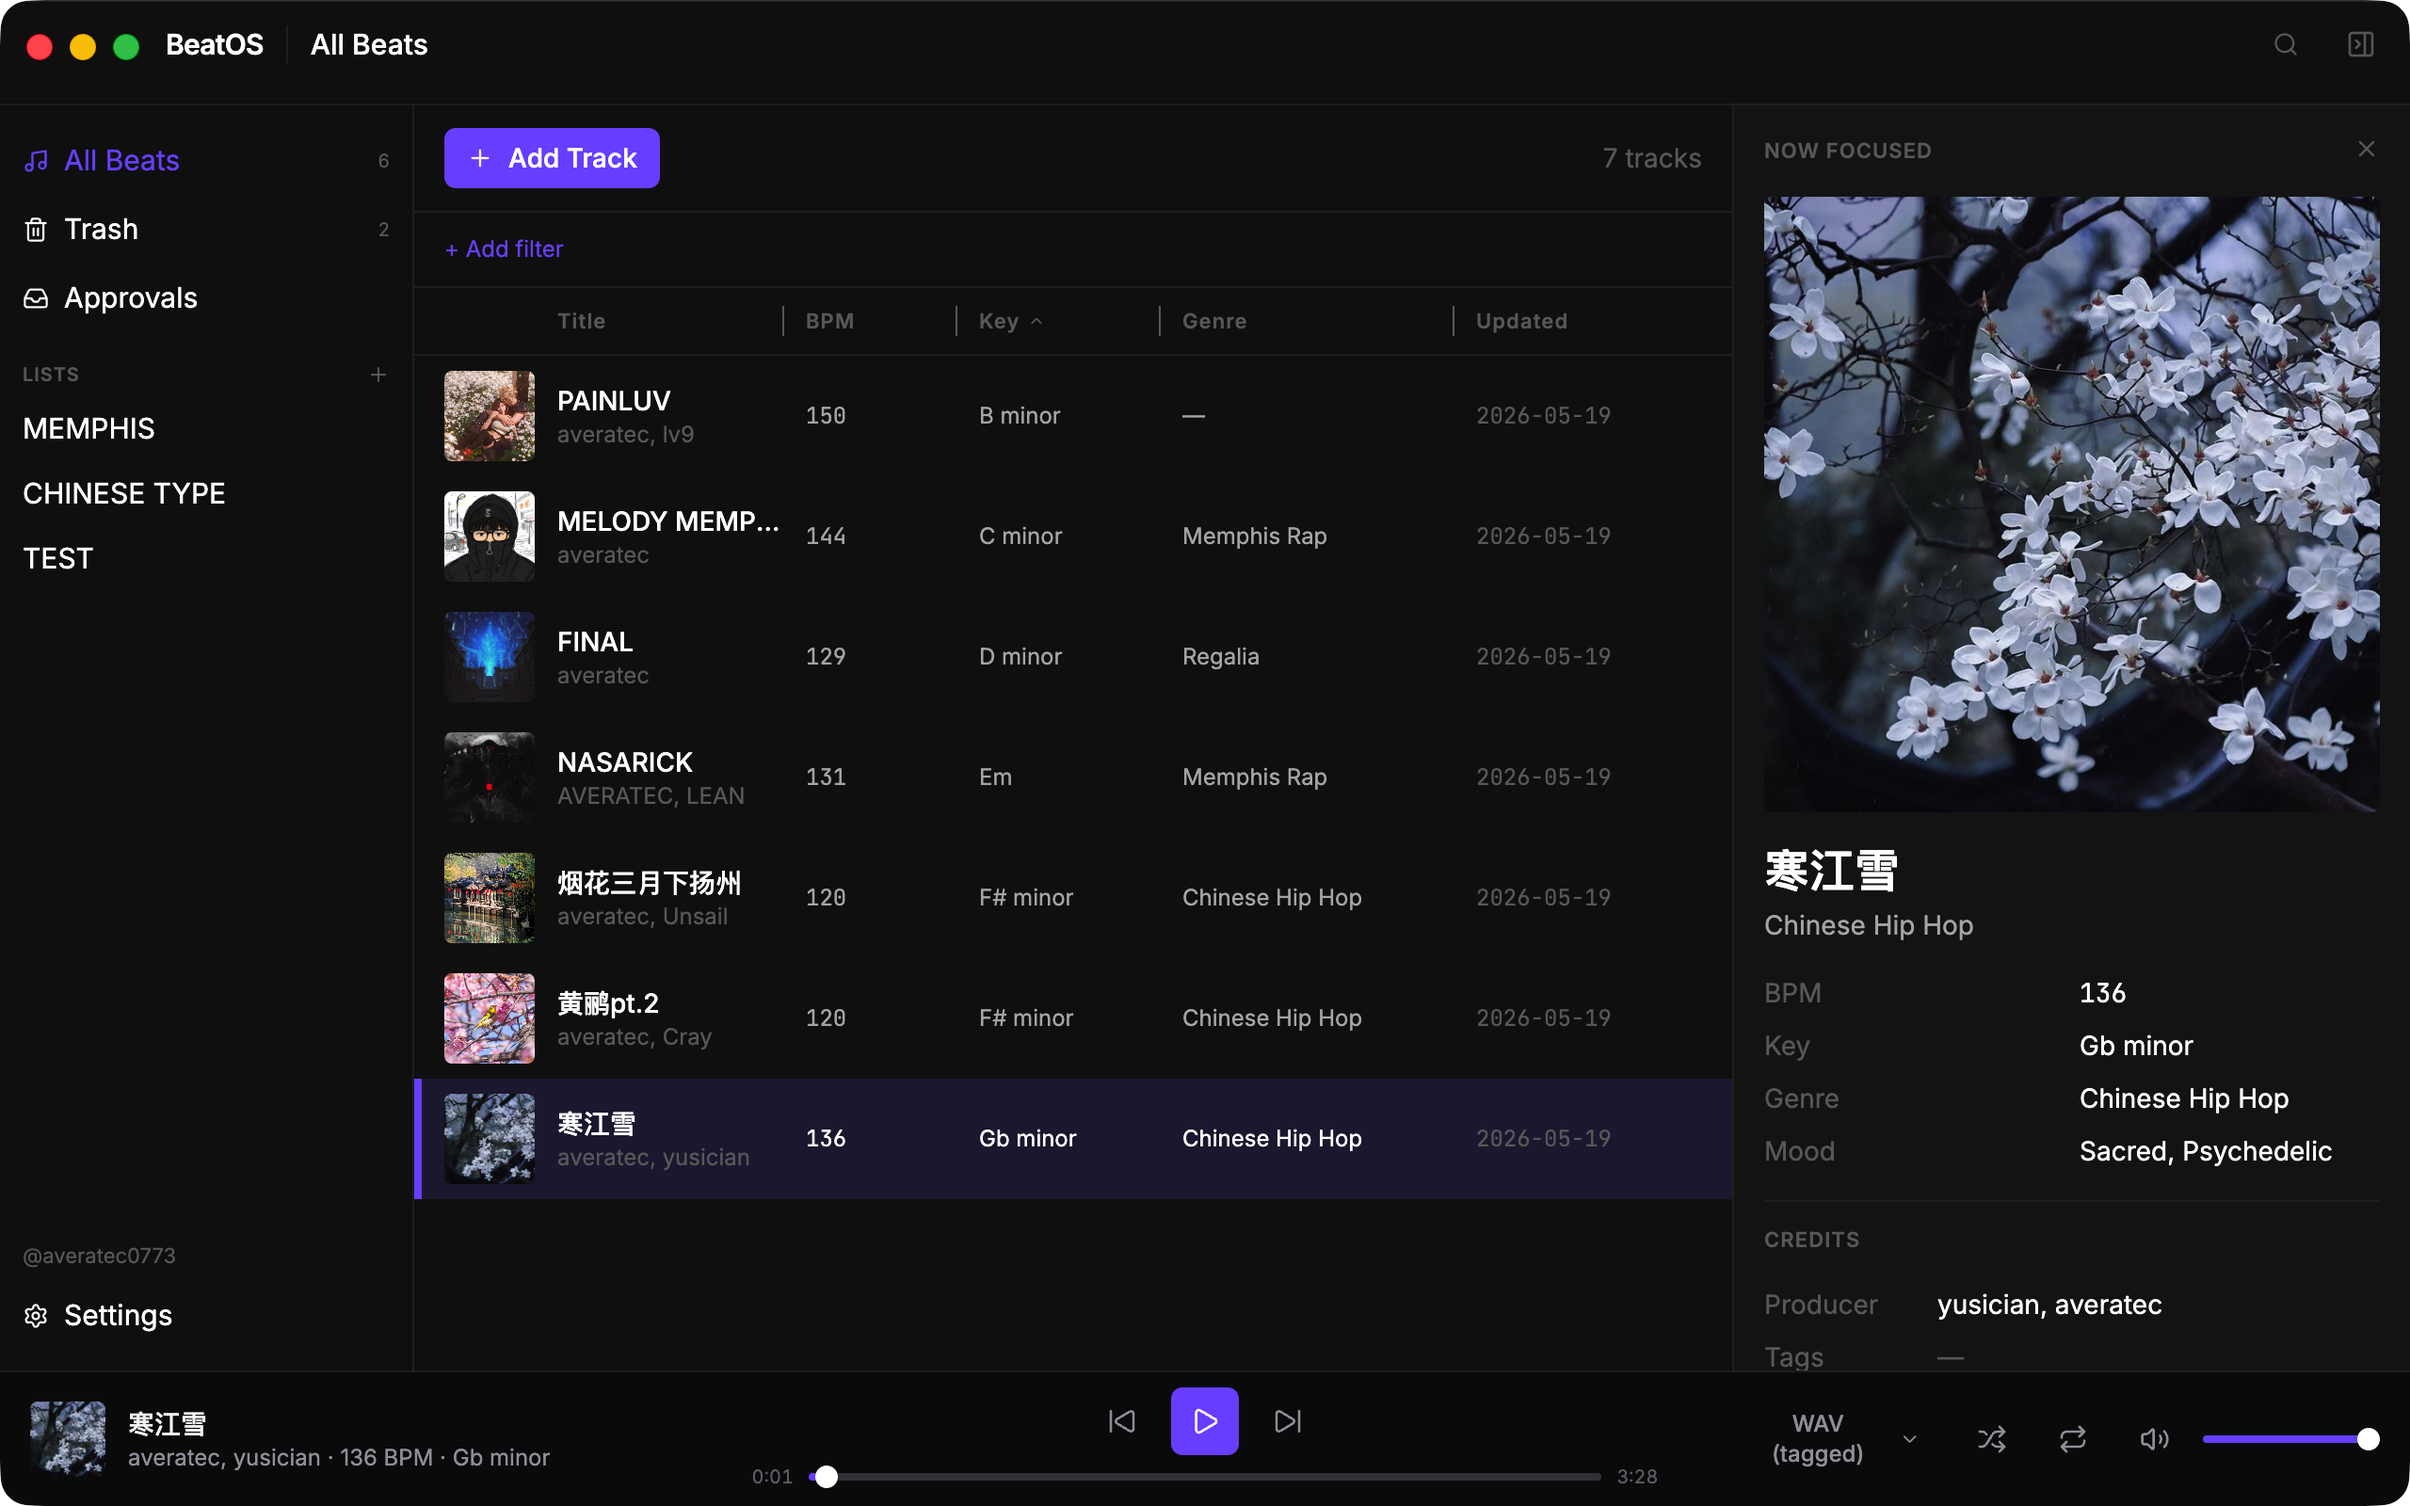
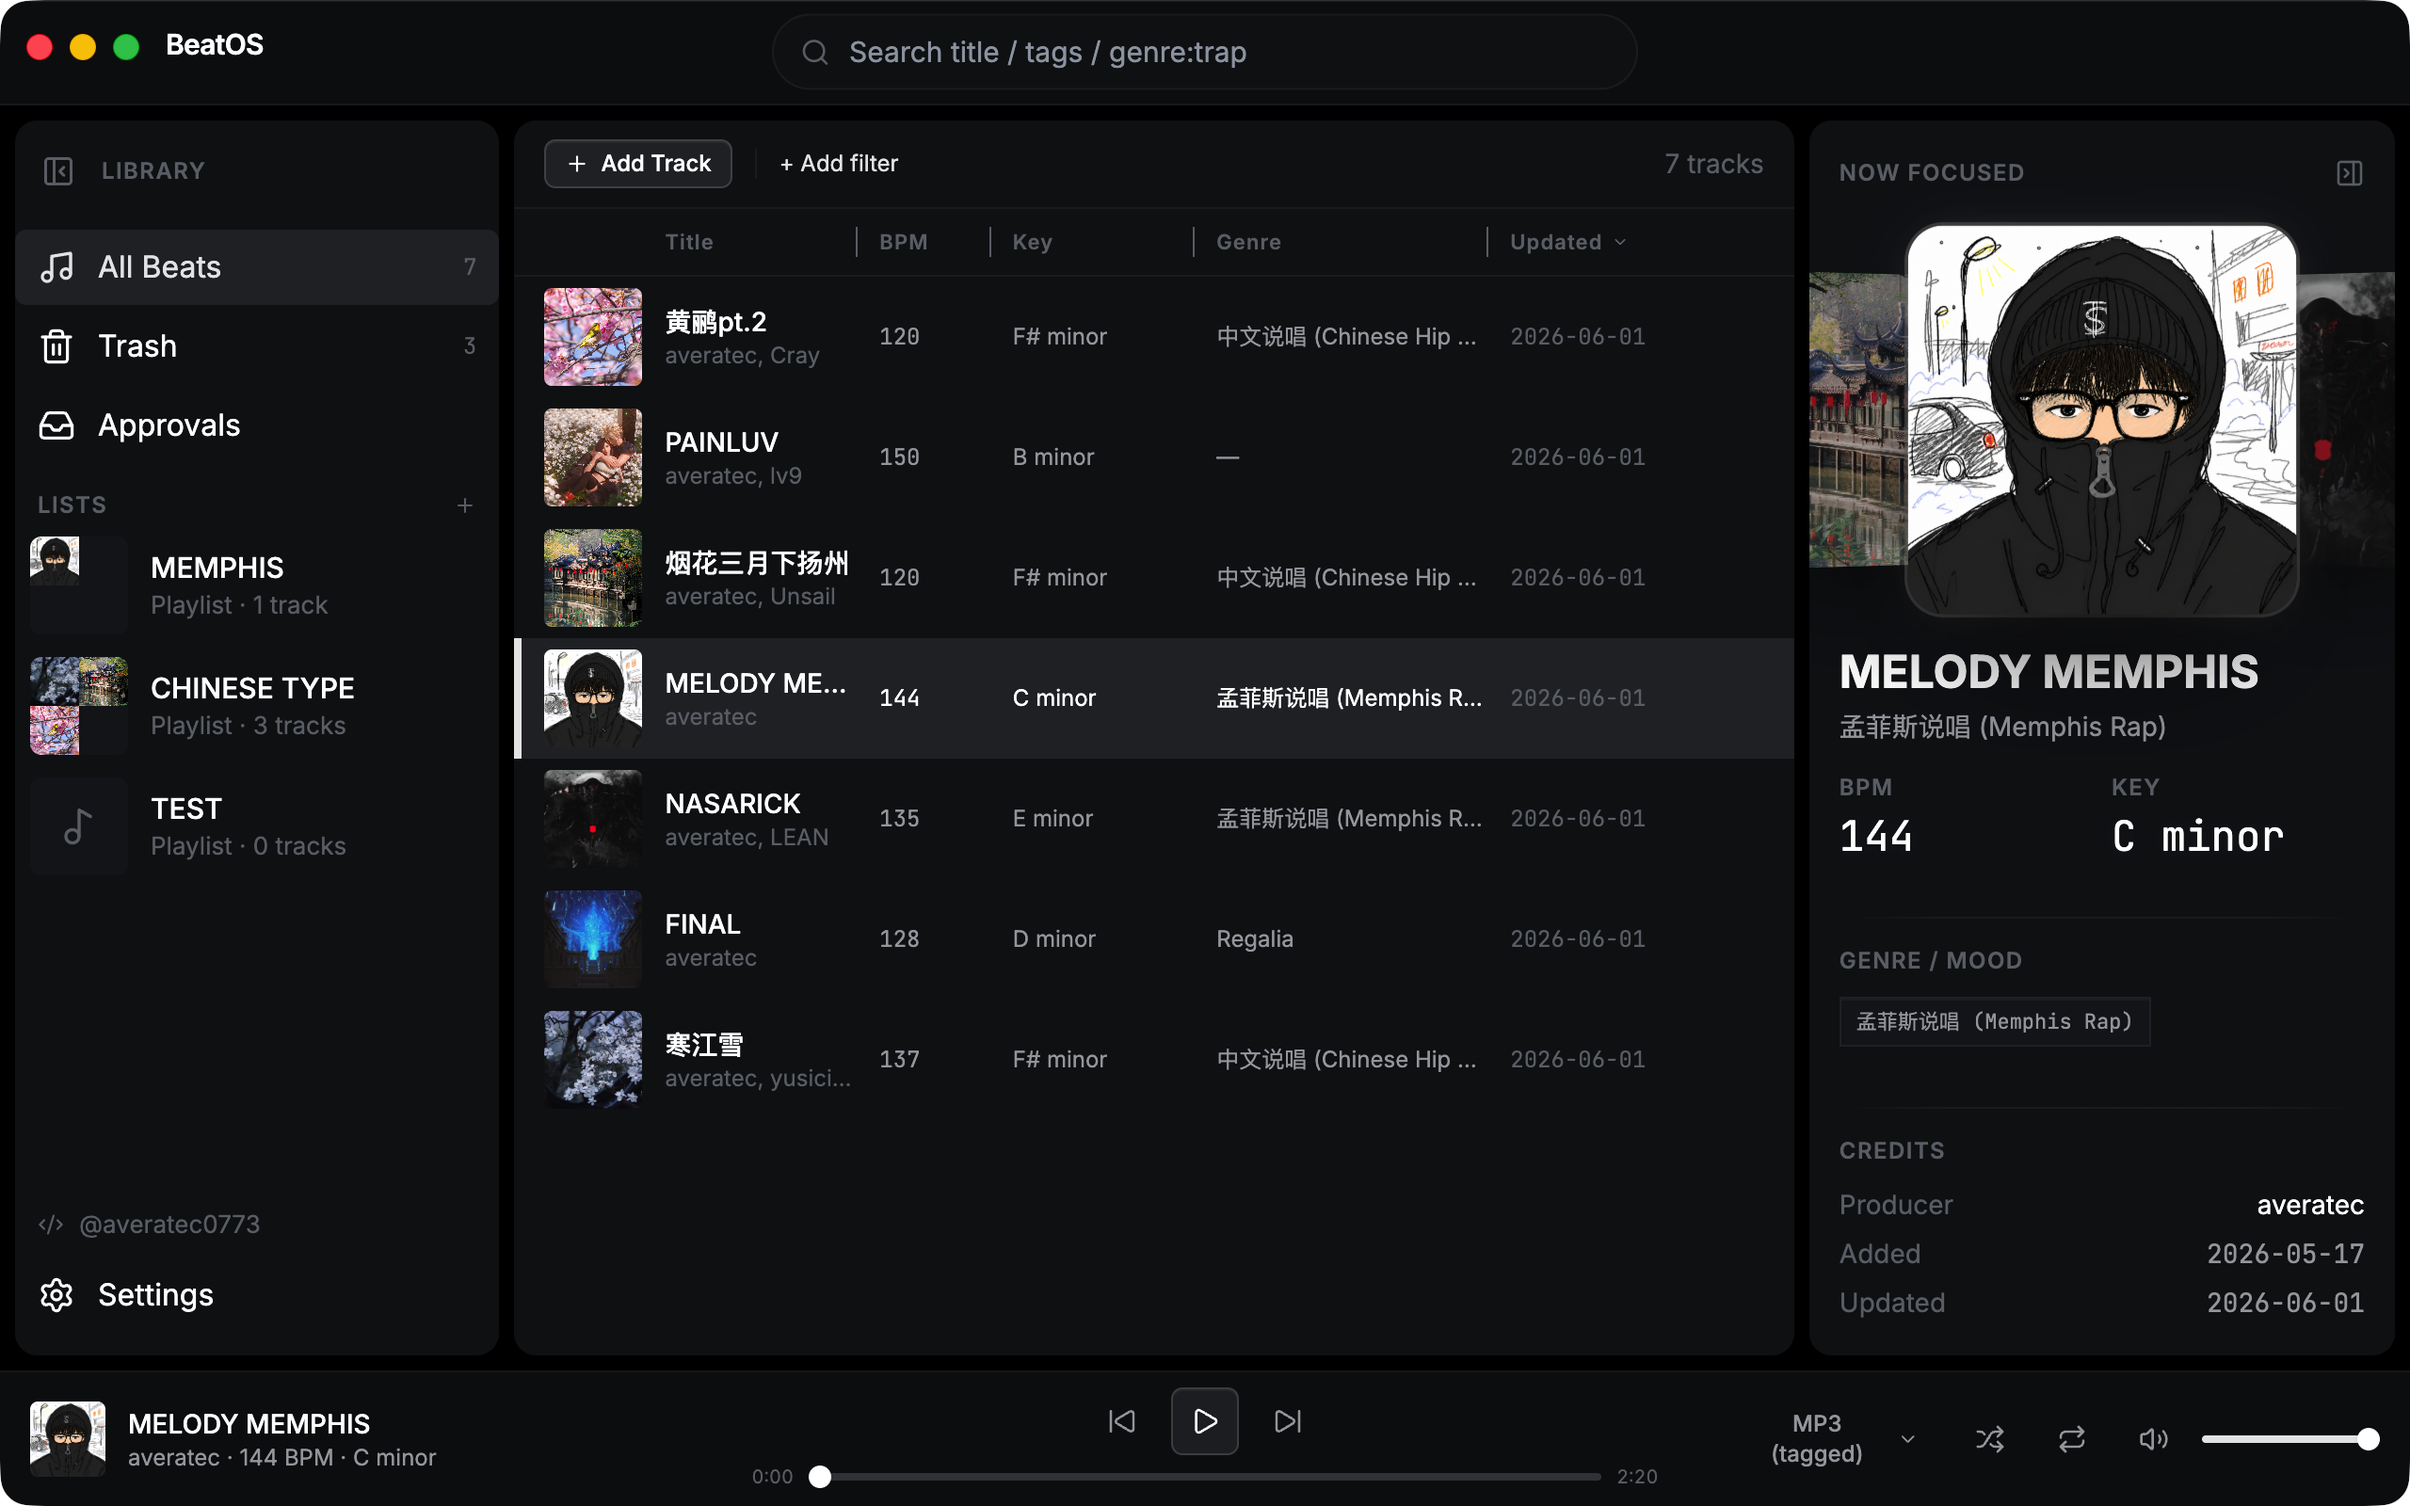
chore(release): 0.0.45 — refresh README hero, version bump, changelog
- Promote the redesigned-UI screenshot to screenshots/main.png (README hero);
  archive the pre-redesign shot at screenshots/archive/main-pre-redesign.png.
- Bump apps/desktop + root/core/http/mcp pyprojects to 0.0.45.
- CHANGELOG [Unreleased] -> [0.0.45].

diff --git a/CHANGELOG.md b/CHANGELOG.md
@@ -6,6 +6,8 @@ Format follows [Keep a Changelog](https://keepachangelog.com/en/1.1.0/); BeatOS 
 
 ## [Unreleased]
 
+## [0.0.45] — 2026-06-02 — UI redesign: monochrome → Spotify-style cards, Coverflow, collapsible sidebar
+
 ### Fixed
 
 - **Asset detach/replace now cascades the analysis cache.** Removing or replacing a track's audio/cover went through a DB connection that never enabled `PRAGMA foreign_keys`, so the `analysis_cache` row's `ON DELETE CASCADE` silently no-op'd and orphan rows accumulated (same class of bug fixed for track purge in v0.0.31, missed on the asset path). `attach_asset`/`detach_asset` now enable the pragma.
